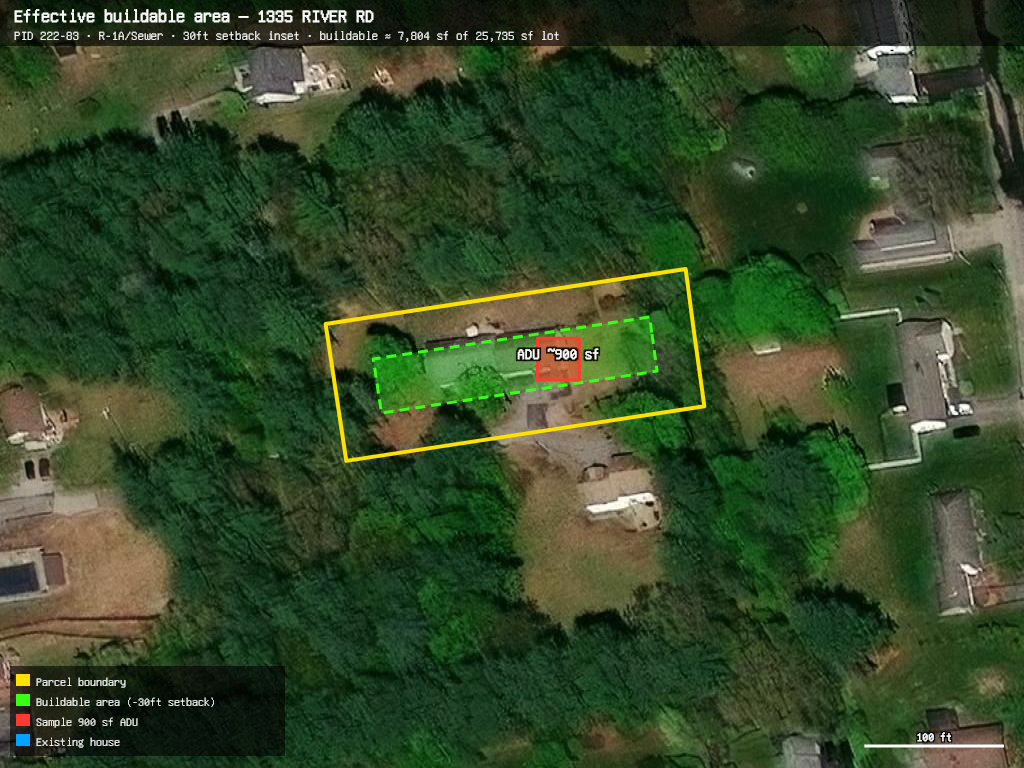
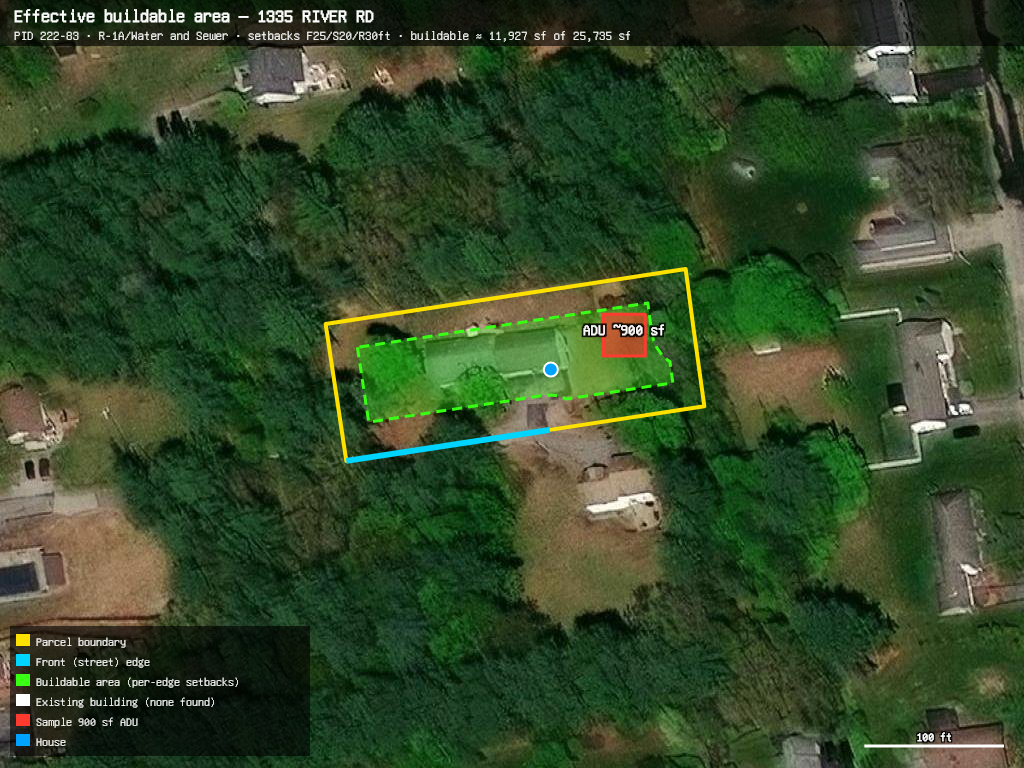
Site map v2: per-edge setbacks + front-edge detection + rear ADU placement + building carve
- Per-edge setbacks (front/side/rear): front edge detected via nearest Census TIGER road
  (layer 8 Local Roads); envelope built by subtracting each edge's own setback strip
- Existing-building carve via FEMA USA Structures (+5ft); honestly reports buildingsCarved=0
  when the footprint layer is registered off the imagery (10m offset observed)
- ADU auto-placed in the open side/rear yard (grid search, farthest from front edge)
- FIX: geocode point can be >150m off the parcel; collect.mjs + sitemap.cjs now use the
  parcel centroid as the interior query point for all point-in-polygon lookups
- 1335 report + map updated (per-edge buildable ~11,927 sf); docs updated

diff --git a/knowledge/nh-data-sources.md b/knowledge/nh-data-sources.md
@@ -200,18 +200,36 @@ https://services1.arcgis.com/aguSsLS841Hp3EC4/ArcGIS/rest/services/NH_Atlas_Zoni
 
 ---
 
-## Step 9 — Site-map image (effective buildable area) → tools/sitemap.cjs ✅
-Renders a static PNG: aerial imagery + parcel outline + setback-based buildable envelope +
-a sample 900 sqft ADU footprint. Deps: `@turf/turf` (geometry) + `@napi-rs/canvas` (raster).
-- **Aerial imagery:** Esri **World Imagery XYZ tiles** (no API key):
-  `https://services.arcgisonline.com/ArcGIS/rest/services/World_Imagery/MapServer/tile/{z}/{y}/{x}`
-  - ⚠️ Use tiles, NOT the MapServer `export` op (that endpoint intermittently returns HTML).
-  - ⚠️ Max real-imagery zoom here is **~19**; z≥20 returns "Map data not yet available"
-    placeholder tiles (still valid PNGs, so cap the start zoom at 19).
-- **Buildable envelope:** `turf.buffer(parcel, -maxSetbackFt, {units:'feet'})` — a conservative
-  uniform inset by the largest of front/side/rear setbacks (from the NH Zoning Atlas).
-- Usage: `node tools/sitemap.cjs "<address>" [out.png]` → `reports/<slug>-sitemap.png`.
-- ✅ Tested `1335 River Rd`: buildable ≈ 7,804 sf of 25,735 sf lot; 900 sf ADU fits.
+## Step 9 — Site-map image (effective buildable area) → tools/sitemap.cjs ✅ (v2)
+Renders a static PNG: aerial + parcel + **per-edge** setback buildable envelope +
+building carve-out + a sample ADU auto-placed in the open yard. Deps: `@turf/turf` + `@napi-rs/canvas`.
+- **Aerial:** Esri **World Imagery XYZ tiles** (no key):
+  `.../World_Imagery/MapServer/tile/{z}/{y}/{x}`. Use tiles NOT the `export` op (export
+  returns HTML intermittently). Cap start zoom at **19** (z≥20 = "no data" placeholder tiles).
+- **Per-edge setbacks:** the **front** edge is detected as the parcel edge nearest a mapped
+  road (**Census TIGERweb Transportation, layer 8 = Local Roads**:
+  `https://tigerweb.geo.census.gov/arcgis/rest/services/TIGERweb/Transportation/MapServer/8`);
+  **rear** = the edge whose midpoint is farthest from the front; the rest are **sides**. The
+  envelope is built by subtracting each edge's own setback strip (`turf.buffer(edgeLine, s)`
+  then `turf.difference`), giving a realistic F25/S20/R30 envelope instead of a uniform inset.
+- **Building carve:** **FEMA USA Structures** footprints
+  `https://services2.arcgis.com/FiaPA4ga0iQKduv3/arcgis/rest/services/USA_Structures_View/FeatureServer/0`
+  — query near the parcel, keep those intersecting it, carve each + a 5 ft separation buffer.
+  ⚠️ This layer is often **registered ~10 m off** the Esri imagery, so for some parcels no
+  footprint matches and the house is NOT carved (reported as `buildingsCarved: 0`). Honest
+  limitation — don't fabricate a footprint.
+- **ADU placement:** grid-search the largest buildable piece for a 30×30 ft (900 sf) square
+  that fits and is farthest from the front edge (→ rear/side yard).
+- ✅ Tested `1335 River Rd`: per-edge buildable ≈ 11,927 sf; 900 sf ADU placed in the side yard.
+
+> **Geocode-offset gotcha (fixed in collect.mjs + sitemap.cjs):** the US Census geocode point
+> can be **>150 m off** the actual parcel (observed 1335 River Rd: ~170 m). Resolve the parcel
+> by exact street address, then use the **parcel centroid** as the interior query point for all
+> point-in-polygon lookups (zoning/flood/shoreland/wetlands/environmental) — never the raw geocode.
+
+## Step 10 — Roads (front-edge detection) → Census TIGERweb
+See Step 9. Layer 8 (Local Roads) covers residential streets; primary/secondary layers
+(0–6) miss most addresses. Query by point + `distance` around the parcel centroid.
 | Code | Meaning | Confidence |
 |---|---|---|
 | TownID 4134 | Manchester | ✅ |

diff --git a/reports/1335-river-road-manchester-nh.md b/reports/1335-river-road-manchester-nh.md
@@ -12,13 +12,15 @@ sewer/water at the tap (§7).
 ## Effective buildable area
 ![Effective buildable area for 1335 River Road](1335-river-road-manchester-nh-sitemap.png)
 
-*Yellow = parcel boundary · green = effective buildable area after a conservative 30 ft setback
-inset · red = a sample 900 sq ft ADU footprint (illustrative placement) · blue dot = existing
-house. Buildable area ≈ **7,804 sq ft** of the 25,735 sq ft lot. The green envelope uses a
-uniform 30 ft inset (the largest of the front/side/rear setbacks) so it is conservative; the
-actual side-yard buildable strip is a bit wider (side setback is 20 ft). Final ADU placement
-must also sit ≥5 ft from the primary structure, out of the front yard, and clear the existing
-driveway — confirm with a site plan.*
+*Yellow = parcel boundary · cyan = detected front/street edge · green = effective buildable
+area using **per-edge setbacks** (front 25 ft / side 20 ft / rear 30 ft) · red = a sample 900 sq
+ft ADU auto-placed in the open side/rear yard · blue dot = house. Buildable area ≈ **11,927 sq
+ft** of the 25,735 sq ft lot. The front edge is detected as the parcel edge nearest a mapped
+road (Census TIGER). **Note:** the existing house footprint is not carved out here — the
+national building-footprint layer (FEMA USA Structures) is registered ~10 m off the aerial for
+this parcel, so it was not reliably matched; the green area therefore still includes the house
+pad. Final ADU siting must sit ≥5 ft from the primary structure, out of the front yard, and
+clear the driveway — confirm with a site plan.*
 
 ---
 
@@ -60,7 +62,7 @@ driveway — confirm with a site plan.*
 - **Adding a 900 sq ft ADU** + pad/walkway (~1,300 sq ft) → total ≈ 20% coverage — well under 40%. ✅
 - **FAR:** max floor area 25,740 × 0.3 = 7,722 sq ft; existing ~2,528 sq ft finished. ✅
 - **Setbacks** F25 / S20 / R30 ft on a 272 × 137 ft lot leave a large rear/side envelope
-  (≈ 7,804 sq ft after a conservative uniform 30 ft inset — see map).
+  (≈ 11,927 sq ft using per-edge setbacks — see map).
 - **Conclusion:** a 900 sq ft / 2-bedroom ADU fits **by-right**, pending confirmed sewer/water.
 
 ---